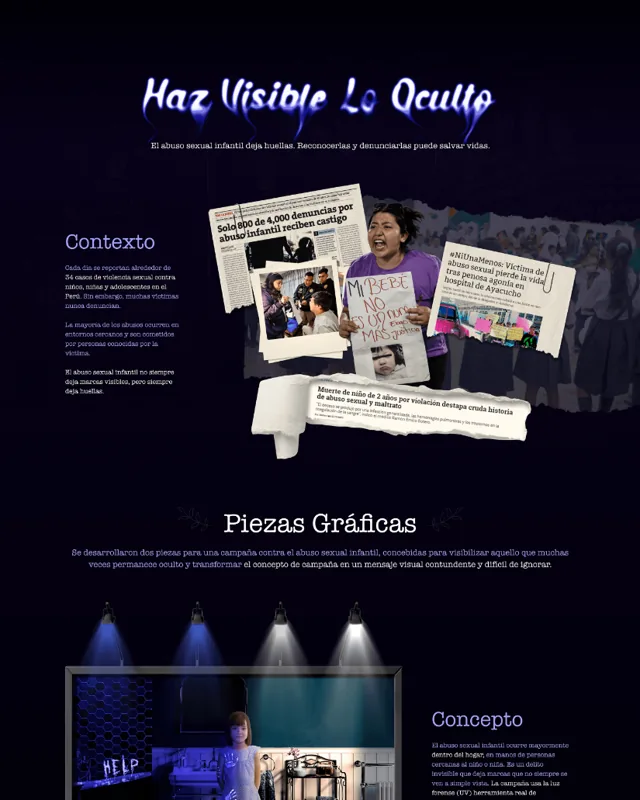
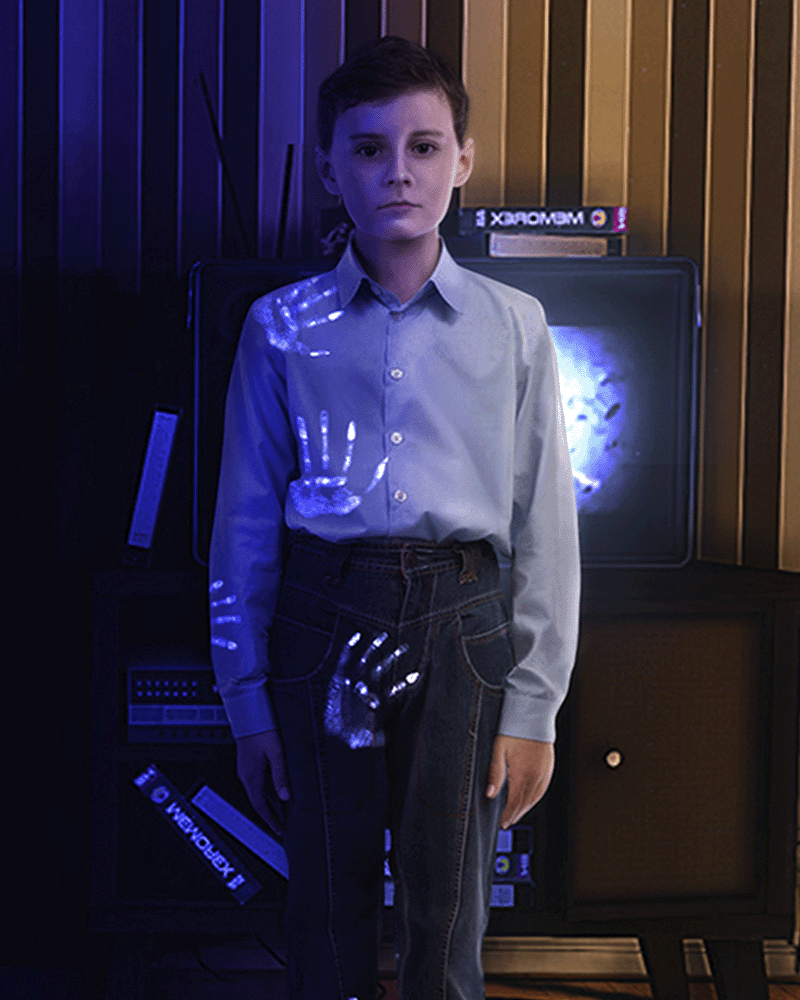
Add files via upload

diff --git a/index.html b/index.html
@@ -57,12 +57,19 @@ h2.t{font-size:clamp(30px,4.2vw,52px);font-weight:800;letter-spacing:-.04em;marg
 .preview.noimg{background:linear-gradient(135deg,#2b2b2b,#111)}
 .preview.noimg::before{content:"▶";position:absolute;inset:0;display:grid;place-items:center;color:#fff;opacity:.55;font-size:28px}
 @media(hover:none){.preview.has-youtube::after{opacity:1}.project h3{opacity:1;transform:none}}
-.project h3{position:absolute;z-index:4;left:18px;right:18px;bottom:16px;margin:0;color:#fff;font-size:19px;font-weight:600;line-height:1.15;opacity:0;transform:translateY(10px);transition:opacity .25s,transform .3s;pointer-events:none;text-shadow:0 2px 16px #0008}
+.project::after{content:"";position:absolute;inset:0;z-index:2;border-radius:var(--r);background:rgba(0,0,0,.72);mix-blend-mode:multiply;opacity:0;pointer-events:none;transition:opacity .3s}
+.project h3{position:absolute;z-index:4;left:9%;right:9%;top:50%;bottom:auto;margin:0;color:#fff;text-align:center;font-size:clamp(22px,2.5vw,34px);font-weight:800;line-height:1.05;letter-spacing:-.035em;opacity:0;transform:translateY(calc(-50% + 10px));transition:opacity .25s,transform .3s;pointer-events:none;text-shadow:0 2px 12px rgba(0,0,0,.35)}
 .project p{display:none}
-.project:hover h3,.project:focus-visible h3{opacity:1;transform:none}
+.project:hover h3,.project:focus-visible h3{opacity:1;transform:translateY(-50%)}
+.project:hover::after,.project:focus-visible::after{opacity:1}
 .project:hover .preview{transform:scale(.985)}
+/* Hover limpio: solo zoom suave de la imagen, sin filtros ni bordes */
+.project:hover .preview,.project:focus-visible .preview{transform:none;filter:none}
+.project .preview img.th{transition:transform .65s cubic-bezier(.2,.7,.2,1)}
+.project:hover .preview img.th,.project:focus-visible .preview img.th{transform:scale(1.055);filter:grayscale(1);opacity:1}
+@media(prefers-reduced-motion:reduce){.project .preview img.th{transition:none}}
 .project:focus-visible{outline:3px solid var(--ink);outline-offset:3px}
-@media(max-width:560px){.grid,.col{gap:10px}.project h3{left:12px;right:12px;bottom:11px;font-size:15px}}
+@media(max-width:560px){.grid,.col{gap:10px}.project h3{left:7%;right:7%;font-size:clamp(17px,4.4vw,23px)}}
 .fun{border:2px dashed var(--accent);border-radius:var(--r);padding:34px;max-width:640px}
 .fun p{font-size:20px;font-weight:300;line-height:1.5;margin:0 0 20px}
 .contact{background:var(--pv);color:var(--ink);padding:80px 0 30px}
@@ -292,6 +299,7 @@ const PROJECTS=[
 {role:'motion',title:'Reel vertical — Prueba 9',desc:'Vista previa optimizada. Video completo en Vimeo.',ratio:'9/16',thumb:'',loop:'videos/prueba_9_maxima.mp4',embed:'https://player.vimeo.com/video/1237758943?h=a7e93251a4&autoplay=1',video:''},
 
 {role:'grafico',title:'Haz visible lo oculto — Campaña',desc:'Campaña contra el abuso sexual infantil · Presentación editorial',ratio:'4/5',thumb:'diseno/haz-visible/portada.webp',editorial:['https://res.cloudinary.com/xrionlxu/image/upload/f_auto,q_auto/v1793373421/01_haz_visible_lo_oculto.png','https://res.cloudinary.com/xrionlxu/image/upload/f_auto,q_auto/v1793373444/02_piezas_graficas.png','https://res.cloudinary.com/xrionlxu/image/upload/f_auto,q_auto/v1793373455/03_billboard_nino.png','https://res.cloudinary.com/xrionlxu/image/upload/f_auto,q_auto/v1793373470/04_gracias_por_ver.png']},
+{role:'grafico',title:'Dates — Una app que conecta',desc:'Proyecto de diseño · Dates',ratio:'4/5',thumb:'diseno/dates/portada.webp',editorial:['https://res.cloudinary.com/xrionlxu/image/upload/v1793401430/01_hero_dates_love.png','https://res.cloudinary.com/xrionlxu/image/upload/v1793401440/02_toca_el_microfono.png','https://res.cloudinary.com/xrionlxu/image/upload/v1793401448/03_una_app_que_conecta.png','https://res.cloudinary.com/xrionlxu/image/upload/v1793634643/04_el_amor_como_era_antes.png','https://res.cloudinary.com/xrionlxu/image/upload/v1793634652/05_social_media.png']},
 ...Array.from({length:5},(_,i)=>({role:'grafico',title:`TECNO — POVA Curve 2 · Pieza ${i+1}`,desc:'Campaña gráfica · 5 piezas',ratio:i===1?'9/16':'1/1',thumb:`diseno/tecno-pova/0${i+1}-thumb.webp`,gallery:Array.from({length:5},(_,j)=>`diseno/tecno-pova/0${j+1}-full.webp`),galleryStart:i})),
 {role:'director',title:'Dirección — Proyecto 17',desc:'Prueba de navegación y visualización de proyectos.',thumb:'',loop:'',embed:'https://www.youtube.com/embed/WL-I5wWmVFw?controls=1&rel=0&autoplay=1',preview:'https://www.youtube.com/embed/WL-I5wWmVFw?enablejsapi=1&autoplay=0&mute=1&controls=0&loop=1&playlist=WL-I5wWmVFw&playsinline=1&rel=0&modestbranding=1',video:''},
 {role:'director',title:'Dirección — Proyecto 18',desc:'Prueba de navegación y visualización de proyectos.',thumb:'',loop:'',embed:'https://www.youtube.com/embed/YmyJT1k5XyQ?controls=1&rel=0&autoplay=1',preview:'https://www.youtube.com/embed/YmyJT1k5XyQ?enablejsapi=1&autoplay=0&mute=1&controls=0&loop=1&playlist=YmyJT1k5XyQ&playsinline=1&rel=0&modestbranding=1',video:''},
@@ -346,7 +354,7 @@ function renderWork(){
   const other=[]; // Los proyectos de dirección de demostración no aparecen en Todo
   // Intercalado reproducible para que el mosaico no salte de posición en cada visita.
   const mi=[3,0,6,2,7,1,5,4].map(i=>motion[i]).filter(Boolean);
-  const gi=[5,2,0,4,1,3].map(i=>graphic[i]).filter(Boolean);
+  const gi=[5,2,0,6,4,1,3].map(i=>graphic[i]).filter(Boolean);
   ordered=[];while(mi.length||gi.length){if(mi.length)ordered.push(mi.shift());if(gi.length)ordered.push(gi.shift());}
   ordered.push(...other);
  }
